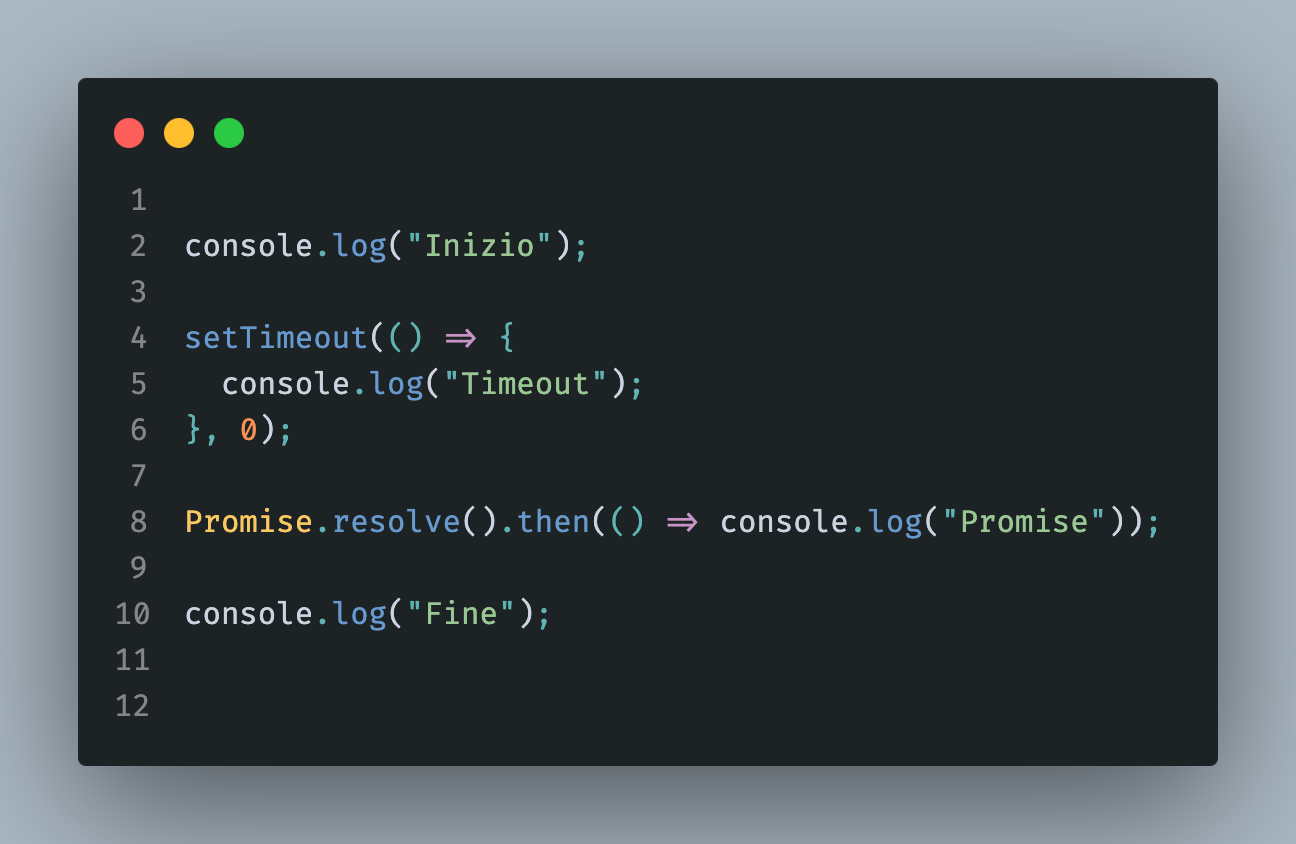
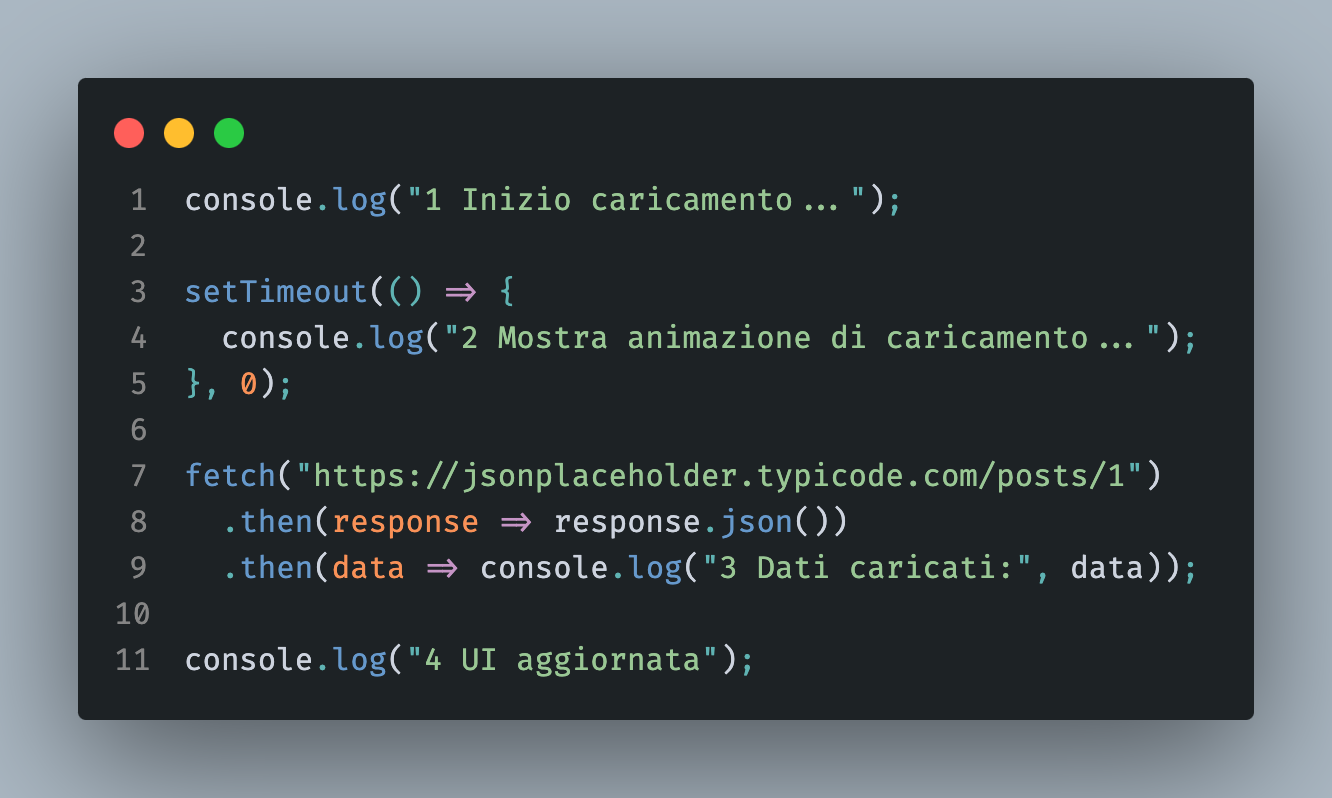
change

diff --git a/script.js b/script.js
@@ -1,11 +1,12 @@
 
-console.log("Inizio");
+console.log("1 Inizio caricamento...");
 
 setTimeout(() => {
-  console.log("Timeout");
+  console.log("2 Mostra animazione di caricamento...");
 }, 0);
 
-Promise.resolve().then(() => console.log("Promise"));
+fetch("https://jsonplaceholder.typicode.com/posts/1")
+  .then(response => response.json())
+  .then(data => console.log("3 Dati caricati:", data));
 
-console.log("Fine");
-
+console.log("4 UI aggiornata");

diff --git a/README.md b/README.md
@@ -1,44 +1,72 @@
-# 📝 JavaScript: Event Loop e la coda dei callback  
+# 🔄 Il misterioso Event Loop in JavaScript! 🔄
 
-## 📌 Introduzione  
-L'Event Loop è il meccanismo che permette a JavaScript, un linguaggio **single-threaded**, di gestire operazioni asincrone senza bloccare l’esecuzione del codice.  
+## 🚀 Cos'è l'Event Loop?
+JavaScript è un linguaggio **single-threaded**, quindi esegue una sola operazione alla volta.  
+Tuttavia, grazie all’**Event Loop**, può gestire operazioni **asincrone** senza bloccare l'esecuzione del codice.
 
-## 🔄 Come funziona  
-1. Il codice **sincrono** viene eseguito immediatamente.  
-2. Le operazioni **asincrone** (come `setTimeout`, `fetch`, e event listener) vengono delegate alle **Web API** del browser o all’ambiente runtime in Node.js.  
-3. Una volta completate, queste operazioni finiscono nella **coda dei callback**.  
-4. L’**Event Loop** monitora lo **stack di esecuzione** e, quando è vuoto, esegue i callback in attesa.  
+## 🎯 Come funziona?
+1⃣ Le operazioni **sincrone** vengono eseguite subito nello **stack**.  
+2⃣ Le operazioni **asincrone** (come `setTimeout`, `fetch`, `event listener`) vengono delegate alle **Web API**.  
+3⃣ Quando sono completate, finiscono nella **coda dei callback**.  
+4⃣ L’Event Loop **controlla lo stack** e, quando è vuoto, esegue i callback.
 
-## 🔍 Esempio di codice  
-Prova a prevedere l'output prima di eseguirlo:  
+---
 
-```javascript
-console.log("Inizio");
+## 🏆 Esempio pratico: Caricamento dati e UI reattiva
+Immagina di voler caricare dati da un'API e mostrare un'animazione mentre aspettiamo la risposta.
+
+### ✅ **Codice**
+```js
+console.log("1⃣ Inizio caricamento...");
 
 setTimeout(() => {
-  console.log("Timeout");
+  console.log("2⃣ Mostra animazione di caricamento...");
 }, 0);
 
-Promise.resolve().then(() => console.log("Promise"));
+fetch("https://jsonplaceholder.typicode.com/posts/1")
+  .then(response => response.json())
+  .then(data => console.log("3⃣ Dati caricati:", data));
 
-console.log("Fine");
-
-/*
-  Quale sarà l'output?
-  Pensa alla priorità delle microtask rispetto alla coda dei callback!
-*/
+console.log("4⃣ UI aggiornata");
 ```
 
-## ✅ Soluzione  
+---
+
+## 🔍 **Quale sarà l'output?**
+Molti si aspettano questo:
 ```
-Inizio  
-Fine  
-Promise  
-Timeout  
+1⃣ Inizio caricamento...
+2⃣ Mostra animazione di caricamento...
+3⃣ Dati caricati: { ... }
+4⃣ UI aggiornata
+```
+❌ **Sbagliato!** L'output reale sarà:
+```
+1⃣ Inizio caricamento...
+4⃣ UI aggiornata
+2⃣ Mostra animazione di caricamento...
+3⃣ Dati caricati: { ... }
 ```
 
-## ❗ Perché?  
-- `"Inizio"` e `"Fine"` sono eseguiti immediatamente (sincroni).  
-- La **Promise** viene inserita nella **microtask queue**, che ha priorità sulla coda dei callback.  
-- Il **setTimeout** viene eseguito solo dopo che lo stack è vuoto, anche se ha `0ms` di delay.  
+---
 
+## 🤔 **Perché succede questo?**
+- **1⃣ e 4⃣ vengono eseguiti subito** perché sono **sincroni**.
+- **Il `setTimeout(0)` va nella coda dei callback** e viene eseguito **solo quando lo stack è vuoto**.
+- **Il `fetch` è una promise** e viene eseguito nella **microtask queue**, che ha più priorità rispetto ai callback normali.
+
+---
+
+## 📌 **Quando è utile conoscere questo comportamento?**
+✅ **UI reattiva** → Se devi aggiornare l’interfaccia in modo fluido senza bloccare il caricamento dei dati.  
+✅ **Evita bug nei `setTimeout`** → Se vuoi eseguire codice **subito dopo un’operazione asincrona**, meglio usare una `Promise` invece di `setTimeout(0)`.  
+✅ **Gestione delle API** → Se usi `fetch` con `setTimeout`, devi sapere **quale viene eseguito prima**.
+
+---
+
+## 🔥 Conclusione
+Capire l’**Event Loop** aiuta a scrivere codice JavaScript **più performante e prevedibile**!  
+
+🚀 **Hai mai avuto problemi con il comportamento asincrono di JavaScript? Scrivilo nei commenti!**  
+
+🔖 #JavaScript #EventLoop #AsyncJS #WebDevelopment #PilloleDiWebDev #UgoDeUghi
